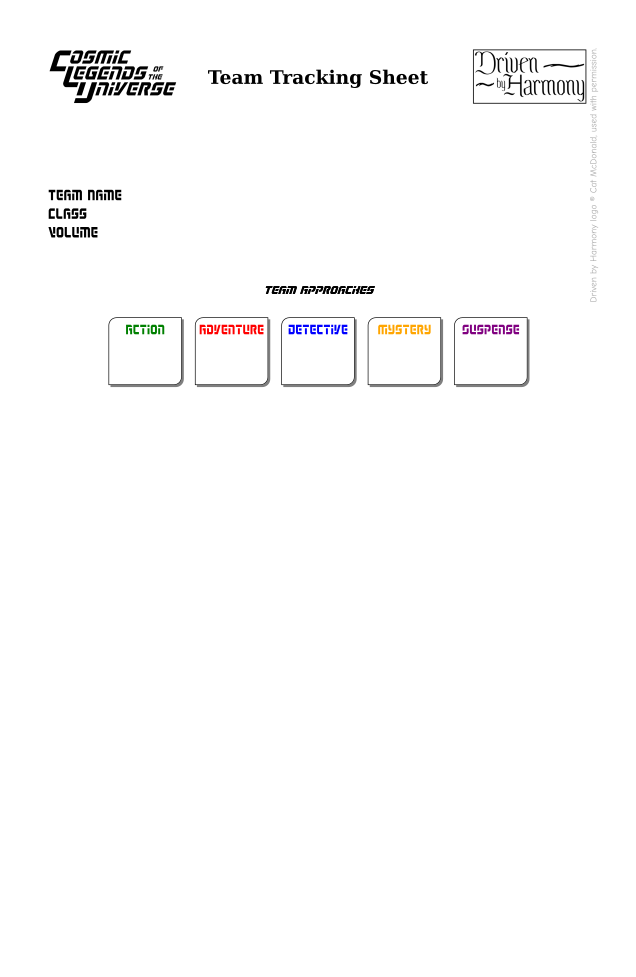
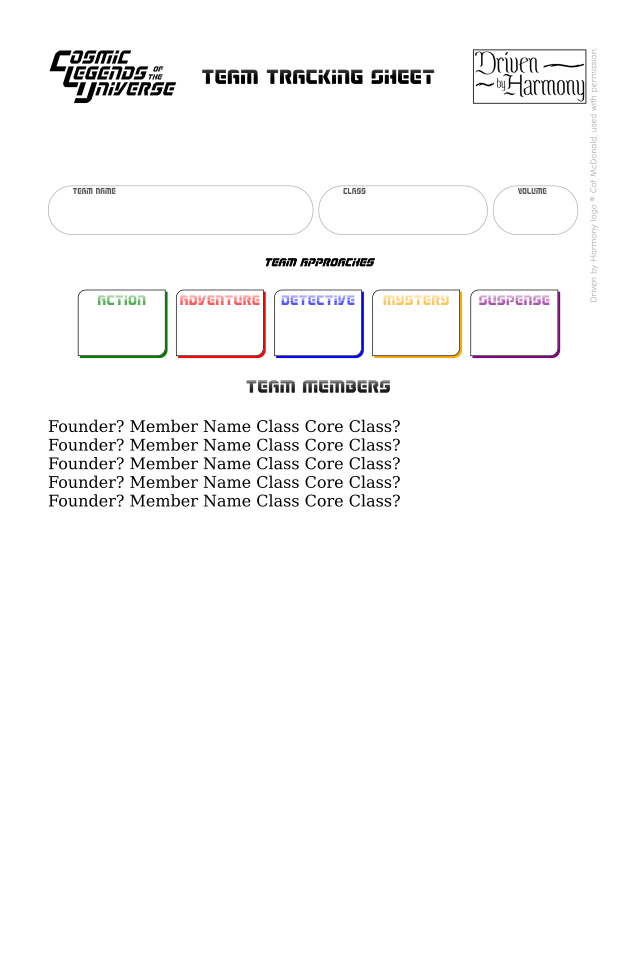
Team Sheet

diff --git a/style/team-sheet.css b/style/team-sheet.css
@@ -13,146 +13,144 @@ header h1     { string-set: gamename content();    }
 @page teamsheet { @bottom-center { content: normal; } }
 @page teamsheet { background: white; }
 
-#team-sheet .gear > ul { margin-left:  0; }
-#team-sheet .gear > li { padding-left: 0; }
+h1 { font-size: var(--h1); font-family: var(--font-h1); }
+h2 { font-size: var(--h2); font-family: var(--font-h2); }
+h3 { font-size: var(--h3); font-family: var(--font-h3); }
+h4 { font-size: var(--h4); font-family: var(--font-h4); }
+h5 { font-size: var(--h5); font-family: var(--font-h5); }
+h6 { font-size: var(--h6); font-family: var(--font-h6); }
+
+#team-sheet ul { margin: 0; padding: 0; }
+#team-sheet li { margin: 0; padding: 0; list-style-type: none; }
 
 #team-sheet .sheet-box {
-  width:   100%;
+  width:   100%; height: 1in;
   display: block;
-  height:  1in;
   border:  0.5pt solid black;
   content: " ";
 }
 
 #team-sheet img.clu-logo {
-  height:   0.600in;
-  width:    auto;
-  position: absolute;
-  top:      0;
-  left:     0;
+  height:   0.600in; width: auto; 
+  position: absolute; top: 0; left: 0;
 }
 
 #team-sheet img.hd-logo {
-  height:   0.600in;
-  width:    auto;
-  position: absolute;
-  top:      0;
-  right:    0;
+  height:   0.600in; width: auto; 
+  position: absolute; top: 0; right: 0;
 }
 
-#team-sheet .hd-logo-copy {
+#team-sheet .hd-logo-copy { /* copyright notice */
   transform-origin: top right;
   transform:        rotate(-90deg);
   position:         absolute;
-  right:            0.00in;
-  top:              0.00in;
+  right:            0; top: 0;
   color:            var(--color-sheet-light);
   font-size:        var(--sheet-tiny);
   font-family:      var(--font);
 }
 
-#team-sheet ul { margin: 0; padding: 0; }
-#team-sheet li { margin: 0; padding: 0; list-style-type: none; }
-
-#team-sheet > .membership.section > ul > li {
+#team-sheet > ul > li > span.field { 
+  position:      relative;
   height:        0.25in;
   border-bottom: 0.5pt solid black;
 }
 
-#team-sheet > ul > li > span.field { position: relative;
-  height:        0.25in;
-  border-bottom: 0.5pt solid black;
+/* members ======================================================================================= */
+
+#team-sheet > .members.section { column-count: 2; column-gap: 8pt; }
+
+#team-sheet > .members.section > ul > li { 
+  border-bottom: 0.25pt solid var(--color-sheet-light); 
+  height:        0.125in; 
+  position:      relative;
+  border:        0.5pt solid var(--color-sheet-light);
+  border-radius: 0.0625in 0.0625in;
+  display:       block;
 }
 
-#team-sheet > .membership.section > ul > li > span.field:before {
-  position:  absolute;
-  top:       0;
-  left:      0;
-  font-size: var(--sheet-tiny);
-  content:   "boop";
+#team-sheet > .members.section > ul > li > span { 
+  background-color: silver; 
+  border:           0.5pt solid var(--color-sheet-light); 
+  height:           0.125in; 
+  display:          inline-block; 
+  width:            0.75in;
+  display:          inline-block; position: absolute; top: 0; left: 0; right: 0;
+  font-family:      var(--font-sheet-2); font-size: var(--sheet-tiny);
 }
 
-#team-sheet > .membership.section > ul > li > span.field.box:after {
-  text-align: center;
-  display:    block;
-  position:   absolute;
-  left:       0;
-  right:      0;
-  bottom:     0;
-  color:      var(--color-sheet-dark);
-  font-size:  var(--sheet-box);
-  content:    '\002610';
+#team-sheet > .members.section > ul > li > span:before {
+  display:     inline-block; position: absolute; top: 0; left: 0; right: 0;
+  font-family: var(--font-sheet-2); font-size: var(--sheet-tiny);
+  border:      0.5pt solid var(--color-sheet-light);
+  background:  gray;
 }
 
-#team-sheet > .membership.section > ul > li > span.field.founder:before { content: "Founder?"    }
-#team-sheet > .membership.section > ul > li > span.field.member:before  { content: "Member Name" }
-#team-sheet > .membership.section > ul > li > span.field.class:before   { content: "Core Class?" }
+#team-sheet > .members.section > ul > li > span:after {
+  text-align:  center; display: block; position: absolute;
+  left:        0; right: 0; bottom: 0;
+  color:       var(--color-sheet-dark);
+  font-size:   var(--sheet-box); font-family: var(--font-sheet-box);
+}
 
-#team-sheet > .header > ul > li > span.field { 
+#team-sheet > .members.section > ul > li > span:nth-child(1)        { width: 1in;   }
+#team-sheet > .members.section > ul > li > span:nth-child(2)        { width: 2in;   }
+#team-sheet > .members.section > ul > li > span:nth-child(3)        { width: 1in;   }
+#team-sheet > .members.section > ul > li > span:nth-child(4)        { width: 0.5in; }
+/*
+#team-sheet > .members.section > ul > li > span:nth-child(1):before { content: "Founder?";    }
+#team-sheet > .members.section > ul > li > span:nth-child(2):before { content: "Member Name"; }
+#team-sheet > .members.section > ul > li > span:nth-child(3):before { content: "Class";       }
+#team-sheet > .members.section > ul > li > span:nth-child(4):before { content: "Core Class?"; }
+#team-sheet > .members.section > ul > li > span:nth-child(1):after  { content: '\002610';     }
+#team-sheet > .members.section > ul > li > span:nth-child(4):after  { content: '\002610';     }
+*/
+
+
+/* basics =========================================================================================== */
+
+#team-sheet > .header > .basics.line > ul > li { 
+  border:        0.5pt solid var(--color-sheet-light);
+  border-radius: 0.25in 0.25in;
   display:       inline-block; 
-  border-bottom: 0.5pt solid black; 
+  color:         var(--color-sheet-dark);
+  height:        0.50in; padding-left:  0.25in;
+  display:       inline-block; 
+  font-size:     var(--sheet-tiny); font-family: var(--font-sheet-2); 
 }
 
-#team-sheet span.field { 
-  display:     inline-block; 
-  font-size:   var(-small); 
-  font-family: var(--font-sheet-2); 
-}
-
-#team-sheet > .header > .team-basics.line > ul > li > span.field.team-name   { width: 50%; }
-#team-sheet > .header > .team-basics.line > ul > li > span.field.team-class  { width: 20%; }
-#team-sheet > .header > .team-basics.line > ul > li > span.field.team-volume { width: 25%; }
-
-#team-sheet > .header > .line {
-  margin-top:     8pt;
-  padding-top:    4pt;
-  padding-bottom: 4pt;
-  margin-bottom:  8pt;
-  display:        block;
-  position:       relative;
-  /*
-  border-top:     0.5pt solid black;
-  border-bottom:  0.5pt solid black;
-  */
-}
+#team-sheet > .header > .basics.line > ul > li              { display: inline-block; }
+#team-sheet > .header > .basics.line > ul > li:nth-child(1) { width: 2.50in;         }
+#team-sheet > .header > .basics.line > ul > li:nth-child(2) { width: 1.50in;         }
+#team-sheet > .header > .basics.line > ul > li:nth-child(3) { width: 0.625in;        }
 
 #team-sheet > .header > .line :matches(h1, h2, h3, h4, h5, h6) {
-  font-size:   var(--body);
-  font-family: var(--font-header);
-  /*
-  position:    absolute; 
-  top:         0; 
-  left:        0;
-  */
+  font-size:   var(--body); font-family: var(--font-header);
 }
 
 #team-sheet :matches(h1, h2, h3, h4, h5, h6) { text-align: center; }
 
-#team-sheet > .header > .line.team-approach-line > ul > li {
-  display: inline-block;
-}
+/* team-approach ==================================================================================== */
 
-#team-sheet > .header > .line.team-approach-line > ul > li > span.field.action    { color: var(--color-action);    }
-#team-sheet > .header > .line.team-approach-line > ul > li > span.field.adventure { color: var(--color-adventure); }
-#team-sheet > .header > .line.team-approach-line > ul > li > span.field.detective { color: var(--color-detective); }
-#team-sheet > .header > .line.team-approach-line > ul > li > span.field.mystery   { color: var(--color-mystery);   }
-#team-sheet > .header > .line.team-approach-line > ul > li > span.field.suspense  { color: var(--color-suspense);  }
+#team-sheet > .header > .line.approach > ul > li                  { display: inline-block;           }
+#team-sheet > .header > .line.approach > ul > li > span.action    { color:   var(--color-action);    }
+#team-sheet > .header > .line.approach > ul > li > span.adventure { color:   var(--color-adventure); }
+#team-sheet > .header > .line.approach > ul > li > span.detective { color:   var(--color-detective); }
+#team-sheet > .header > .line.approach > ul > li > span.mystery   { color:   var(--color-mystery);   }
+#team-sheet > .header > .line.approach > ul > li > span.suspense  { color:   var(--color-suspense);  }
 
-#team-sheet > .header > .line.team-approach-line > ul { text-align: center; }
+#team-sheet > .header > .line.approach > ul { text-align: center; }
 
-#team-sheet > .header > .line.team-approach-line > ul > li > span {
-  width:         0.75in; 
-  margin-right:  3.00pt;
-  margin-left:   3.00pt;
-  padding-top:   3.00pt;
-  height:        0.65in;
-  border:        0.50pt solid black;
+#team-sheet > .header > .line.approach > ul > li > span {
+  width:         0.90in; height: 0.65in;
+  display:       inline-block;
+  margin-right:  2pt; margin-left: 2pt; padding-top: 2pt;
   text-align:    center;
-  font-size:     var(--sheet);
+  font-size:     var(--sheet); font-family:   var(--font-h4);
+  border:        0.50pt solid black;
   border-radius: var(--border-radius);
-  box-shadow:    var(--box-shadow) var(--color-shadow);
+  box-shadow:    var(--box-shadow) /* var(--color-shadow) */;
 }
 
-#team-sheet > .body { column-count: 2; column-gap: 8pt; }
+/* ================================================================================================== */
 
-#team-sheet > .team-basics { display: none; }

diff --git a/src/team/sheet.md b/src/team/sheet.md
@@ -8,22 +8,35 @@
 
 :::::::::: { .header } :::::::::::::::::::::::::::::::::::::::::::::::::::::::::::::::::::::::::
 
-:::: { .team-basics .line } ::::::
+:::: { .basics .line } ::::::
 - [Team Name]{.team-name   .field}
 - [Class    ]{.team-class  .field}
 - [Volume   ]{.team-volume .field}
 ::::::::::::::::::::::::::::::::::
 
-:::::::::: { .team-approach-line .line } ::::::::::::::::::::::::::::::::::::
+:::::::::: { .approach .line } ::::::::::::::::::::::::::::::::::::
+
 ## Team Approaches
 
-- [Action   ]{ .team-approach .action    .field }
-- [Adventure]{ .team-approach .adventure .field }
-- [Detective]{ .team-approach .detective .field }
-- [Mystery  ]{ .team-approach .mystery   .field }
-- [Suspense ]{ .team-approach .suspense  .field }
+- [Action   ]{.approach .action    .field}
+- [Adventure]{.approach .adventure .field}
+- [Detective]{.approach .detective .field}
+- [Mystery  ]{.approach .mystery   .field}
+- [Suspense ]{.approach .suspense  .field}
 :::::::::::::::::::::::::::::::::::::::::::::::::::::::::::::::::::::::::::::
 
+
+:::::::::: { .members .section } :::::::::::::::::::::::::::::::::::::::::::::::::
+
+## Team Members
+
+- [Founder?]{} [Member Name]{} [Class]{} [Core Class?]{}
+- [Founder?]{} [Member Name]{} [Class]{} [Core Class?]{}
+- [Founder?]{} [Member Name]{} [Class]{} [Core Class?]{}
+- [Founder?]{} [Member Name]{} [Class]{} [Core Class?]{}
+- [Founder?]{} [Member Name]{} [Class]{} [Core Class?]{}
+
+::::::::::::::::::::::::::::::::::::::::::::::::::::::::::::::::::::::::::::::::::::::::::
 [Driven by Harmony logo &copy; Cat McDonald, used with permission.]{.hd-logo-copy} \
 
 ::::::::::::::::::::::::::::::::::::::::::::::::::::::::::::::::::::::::::::::::::::::::::::::::
